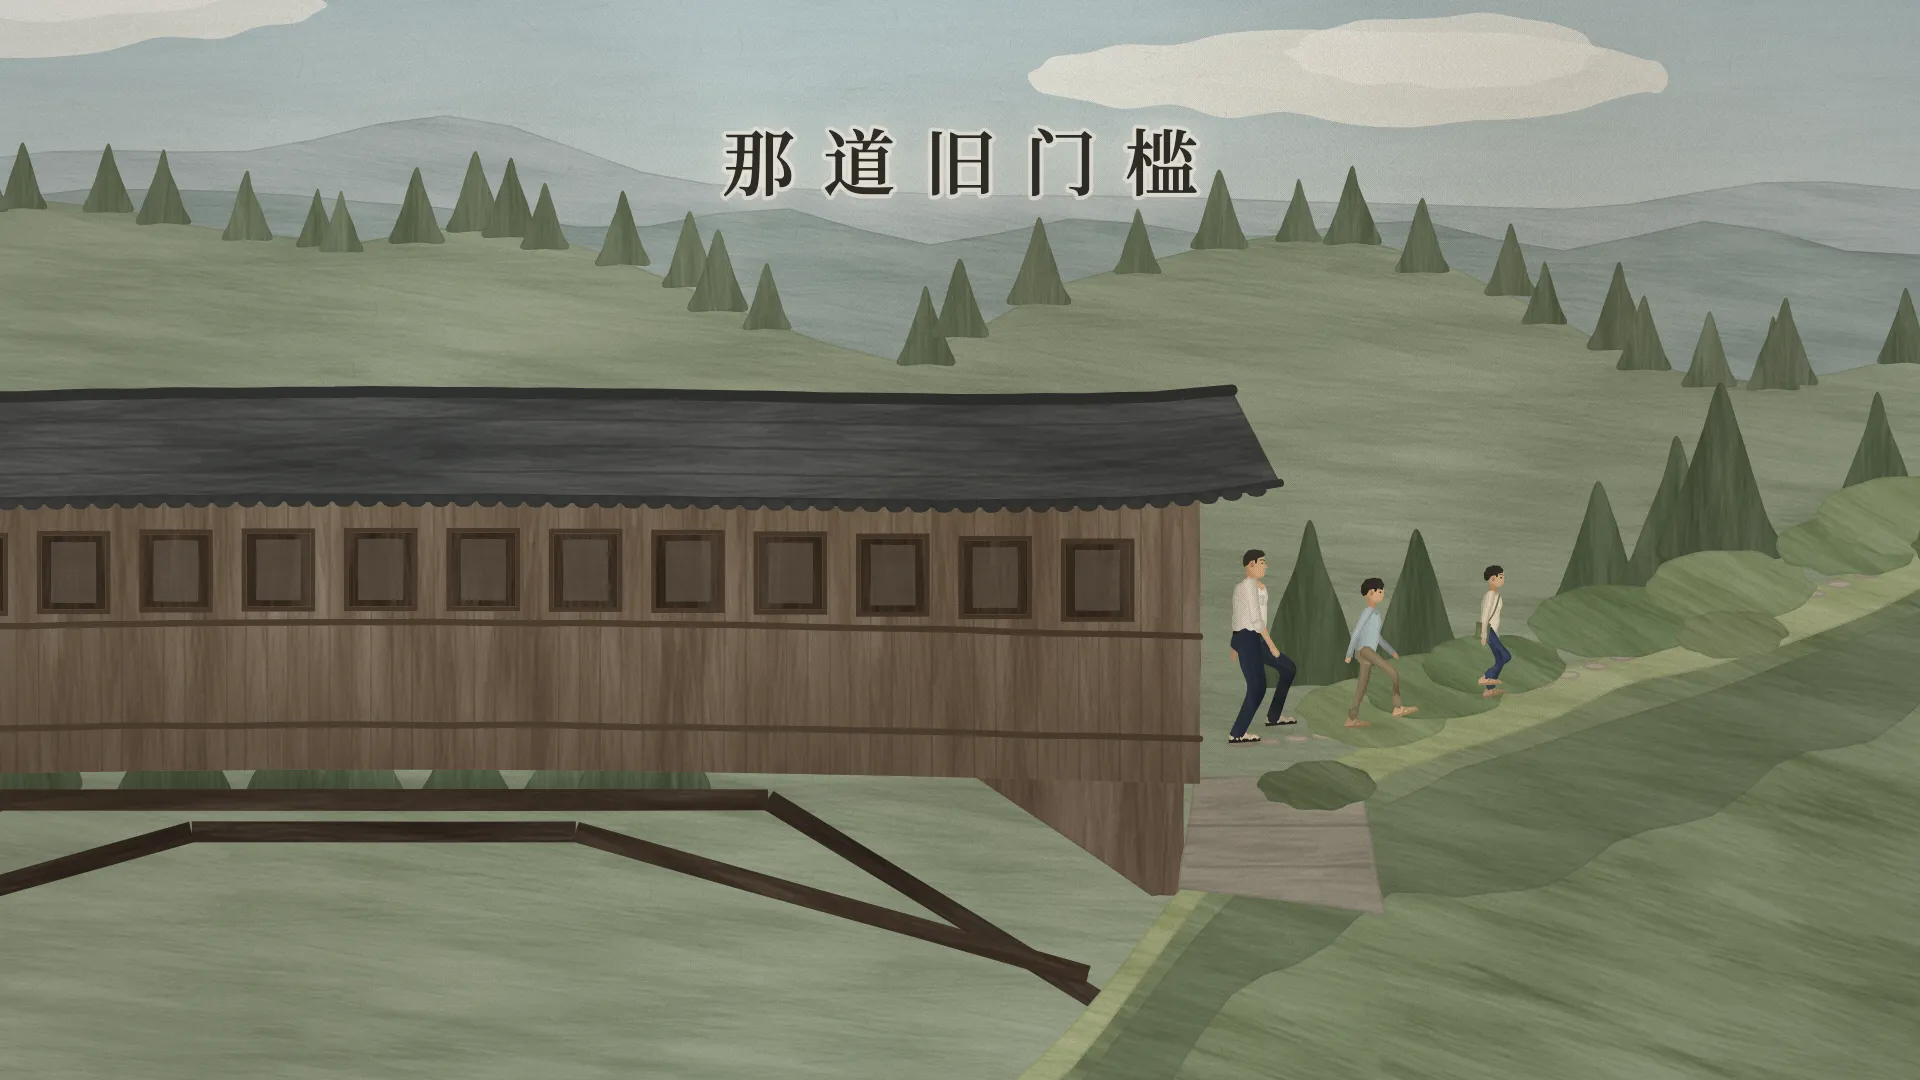
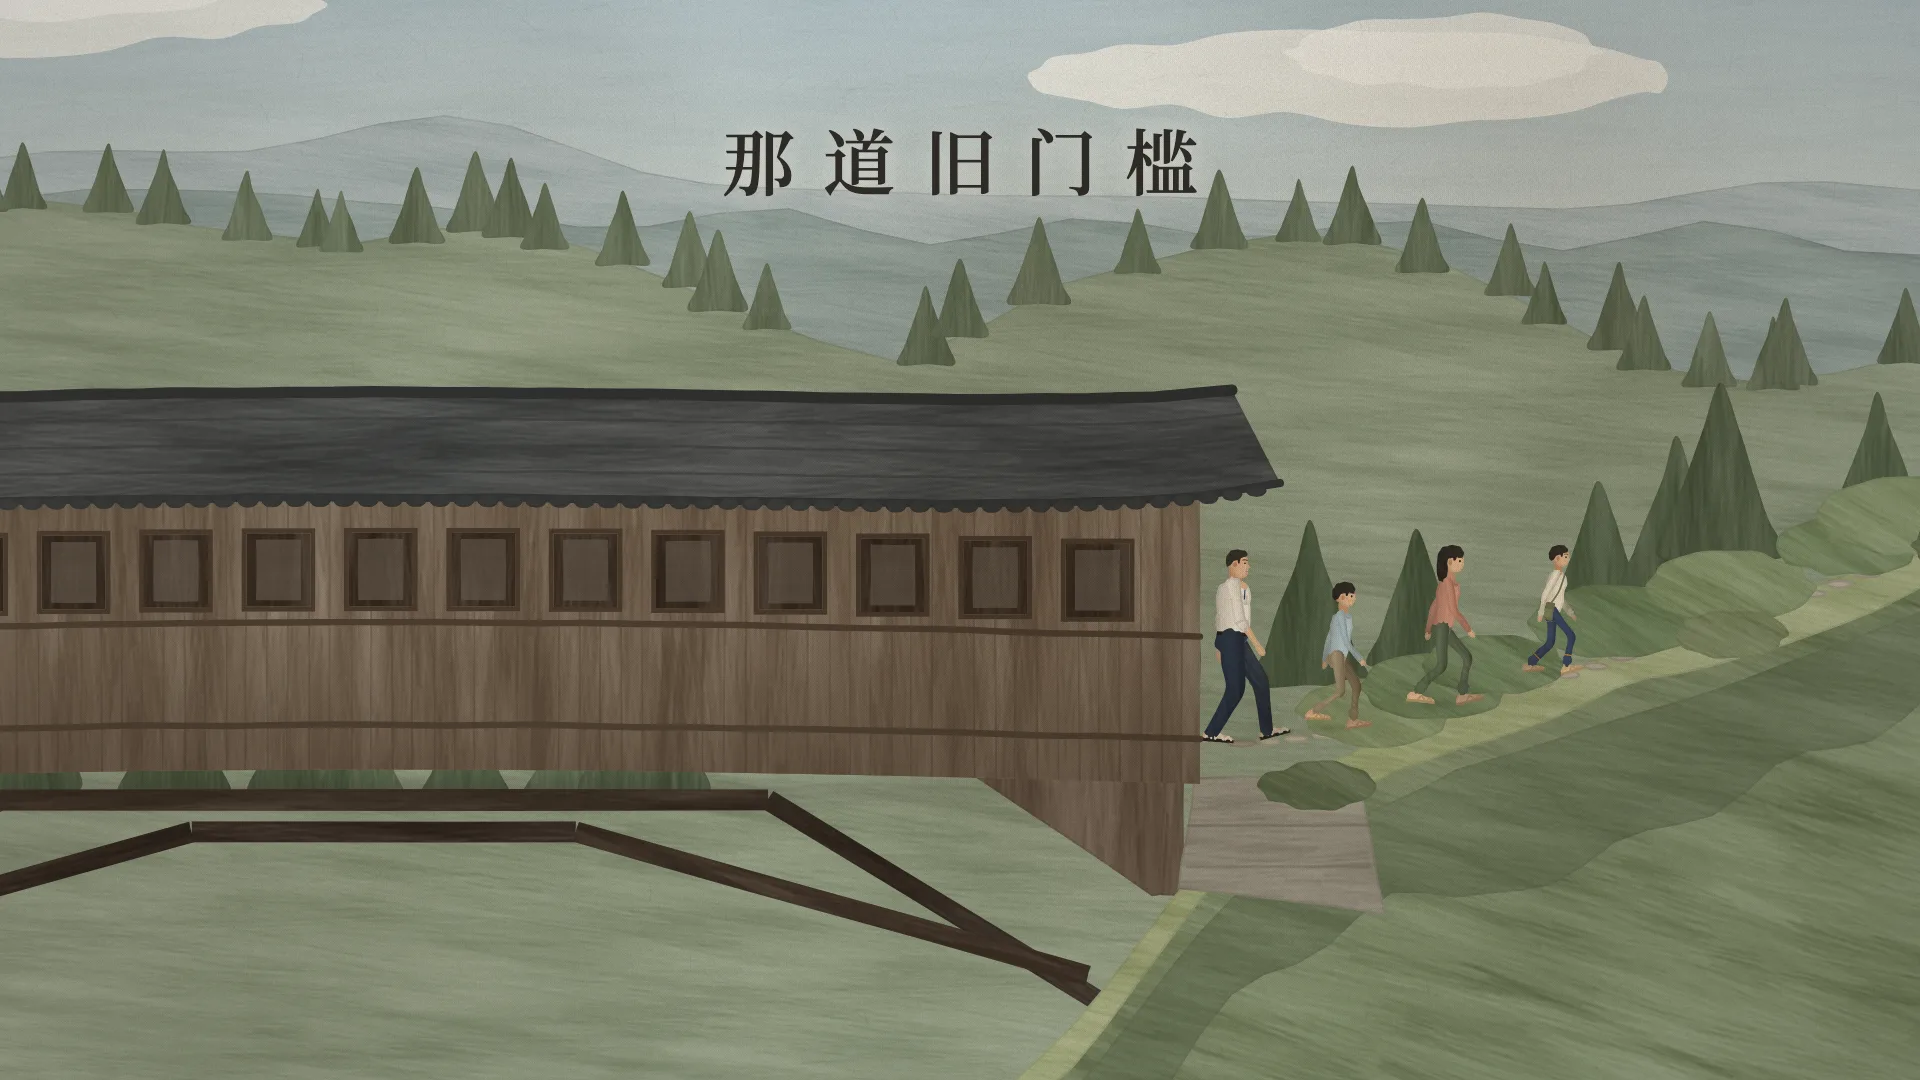
feat(works): 《那道旧门槛》封面加入姐姐

Changed region(s): [[0.625, 0.4889, 0.8438, 0.7028], [0.375, 0.1222, 0.625, 0.1833]]

diff --git a/static/works/old-threshold-mv/app/src/cover.js b/static/works/old-threshold-mv/app/src/cover.js
@@ -1,4 +1,5 @@
-// Cover and poster: the three of us coming out of the covered bridge, me in front, with the title.
+// Cover and poster: the four of us coming out of the covered bridge, me in front, my sister just behind me,
+// then my brother, then him, just clear of the bridge's mouth; with the title.
 // Drawn at 1920 x 1080, then cropped to the shape asked for.
 import { W, H } from './core.js';
 import { CAST, drawFigure, gait, groundShadow } from './figure.js';
@@ -7,9 +8,9 @@ import { finish, grade } from './gouache.js';
 import { title } from './type.js';
 
 function picture(c, shift = 0) {
-    const x = 2660;
+    const x = 2700;
     drawLand(c, 61, { cx: 2560 - shift, cy: ground(2560) - 120, z: 1.6 }, (cc) => {
-        for (const [cast, h, xx, seed, look] of [[CAST.fatherTeacher, 125, x - 150, 37, 0.08], [CAST.brother, 98, x - 76, 23, 0.06], [CAST.me, 88, x, 11, 0.0]]) {
+        for (const [cast, h, xx, seed, look] of [[CAST.fatherTeacher, 125, x - 200, 37, 0.08], [CAST.brother, 98, x - 134, 23, 0.06], [CAST.sister, 108, x - 68, 29, 0.04], [CAST.me, 88, x, 11, 0.0]]) {
             const p = gait(cast, h, xx, { x0: 0, f: 1, ground, look });
             groundShadow(cc, p, h, 0.18);
             drawFigure(cc, cast, h, p, seed);

diff --git a/content/works/old-threshold-mv.md b/content/works/old-threshold-mv.md
@@ -9,5 +9,5 @@ workNumber: "W-012"
 workType: "动画 MV"
 workYear: "2026"
 cover: "/works/old-threshold-mv/cover.webp"
-coverAlt: "山间的木廊桥一端，父亲和两个孩子从桥里走出来，走在最前面的是小儿子，山路沿着绿坡往上，上方是片名“那道旧门槛”"
+coverAlt: "山间的木廊桥一端，父亲和三个孩子从桥里走出来，走在最前面的是小儿子，紧跟在后的是个子最高的姐姐，山路沿着绿坡往上，上方是片名“那道旧门槛”"
 ---
